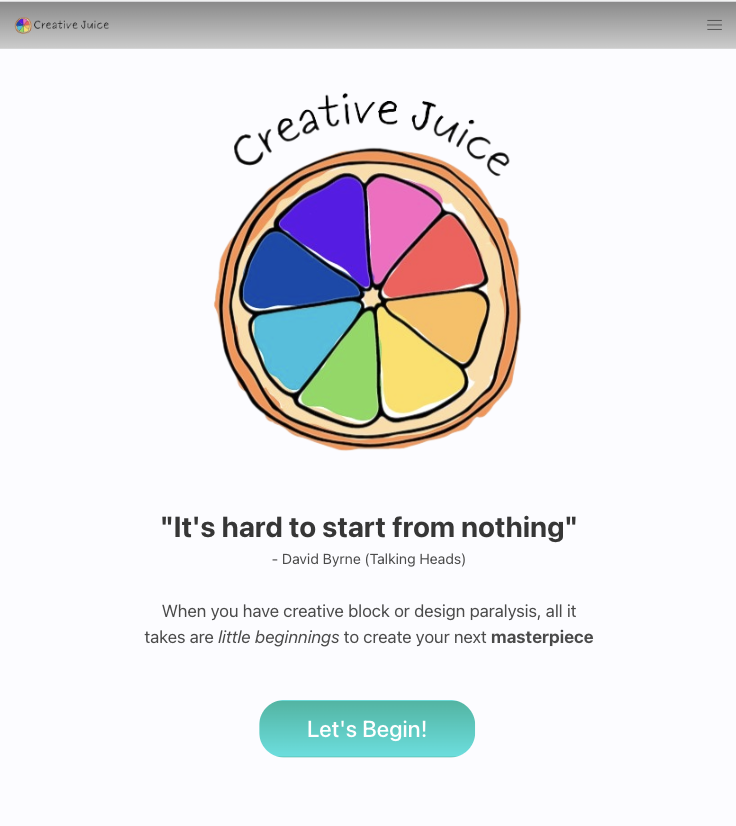
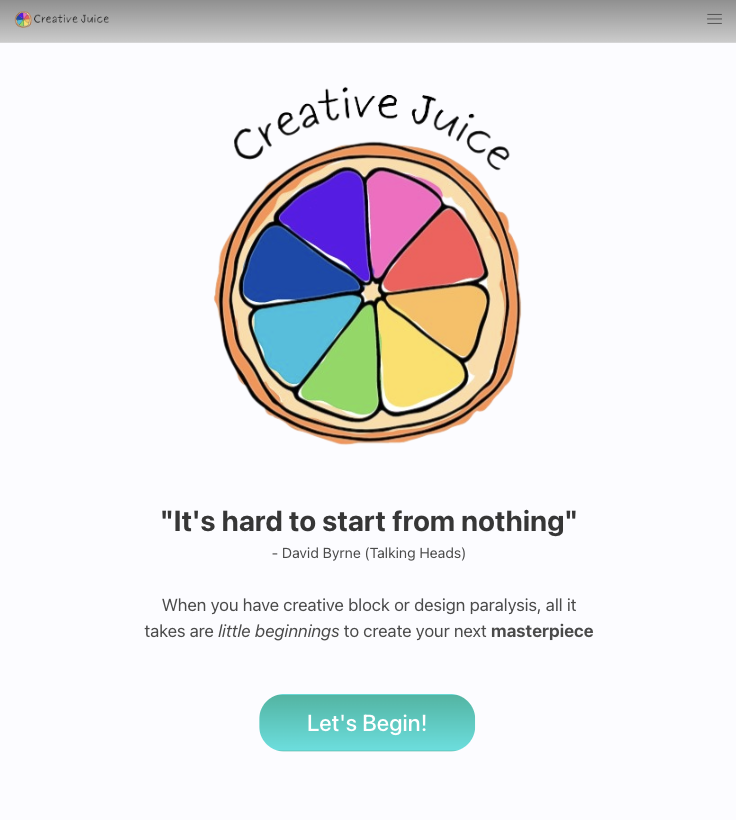
updated images and css files

diff --git a/assets/CSS/variable.css b/assets/CSS/variable.css
@@ -3,7 +3,7 @@
     --soft: #E7E6E2;
     --mid: #4b4846;
     --dark: black;
-    --accent: #377768;
+    --accent: #2c806c;
     --font1: 'Arial narrow', sans-serif;
     --font2: 'Monaco' Courier, monospace;
 }
